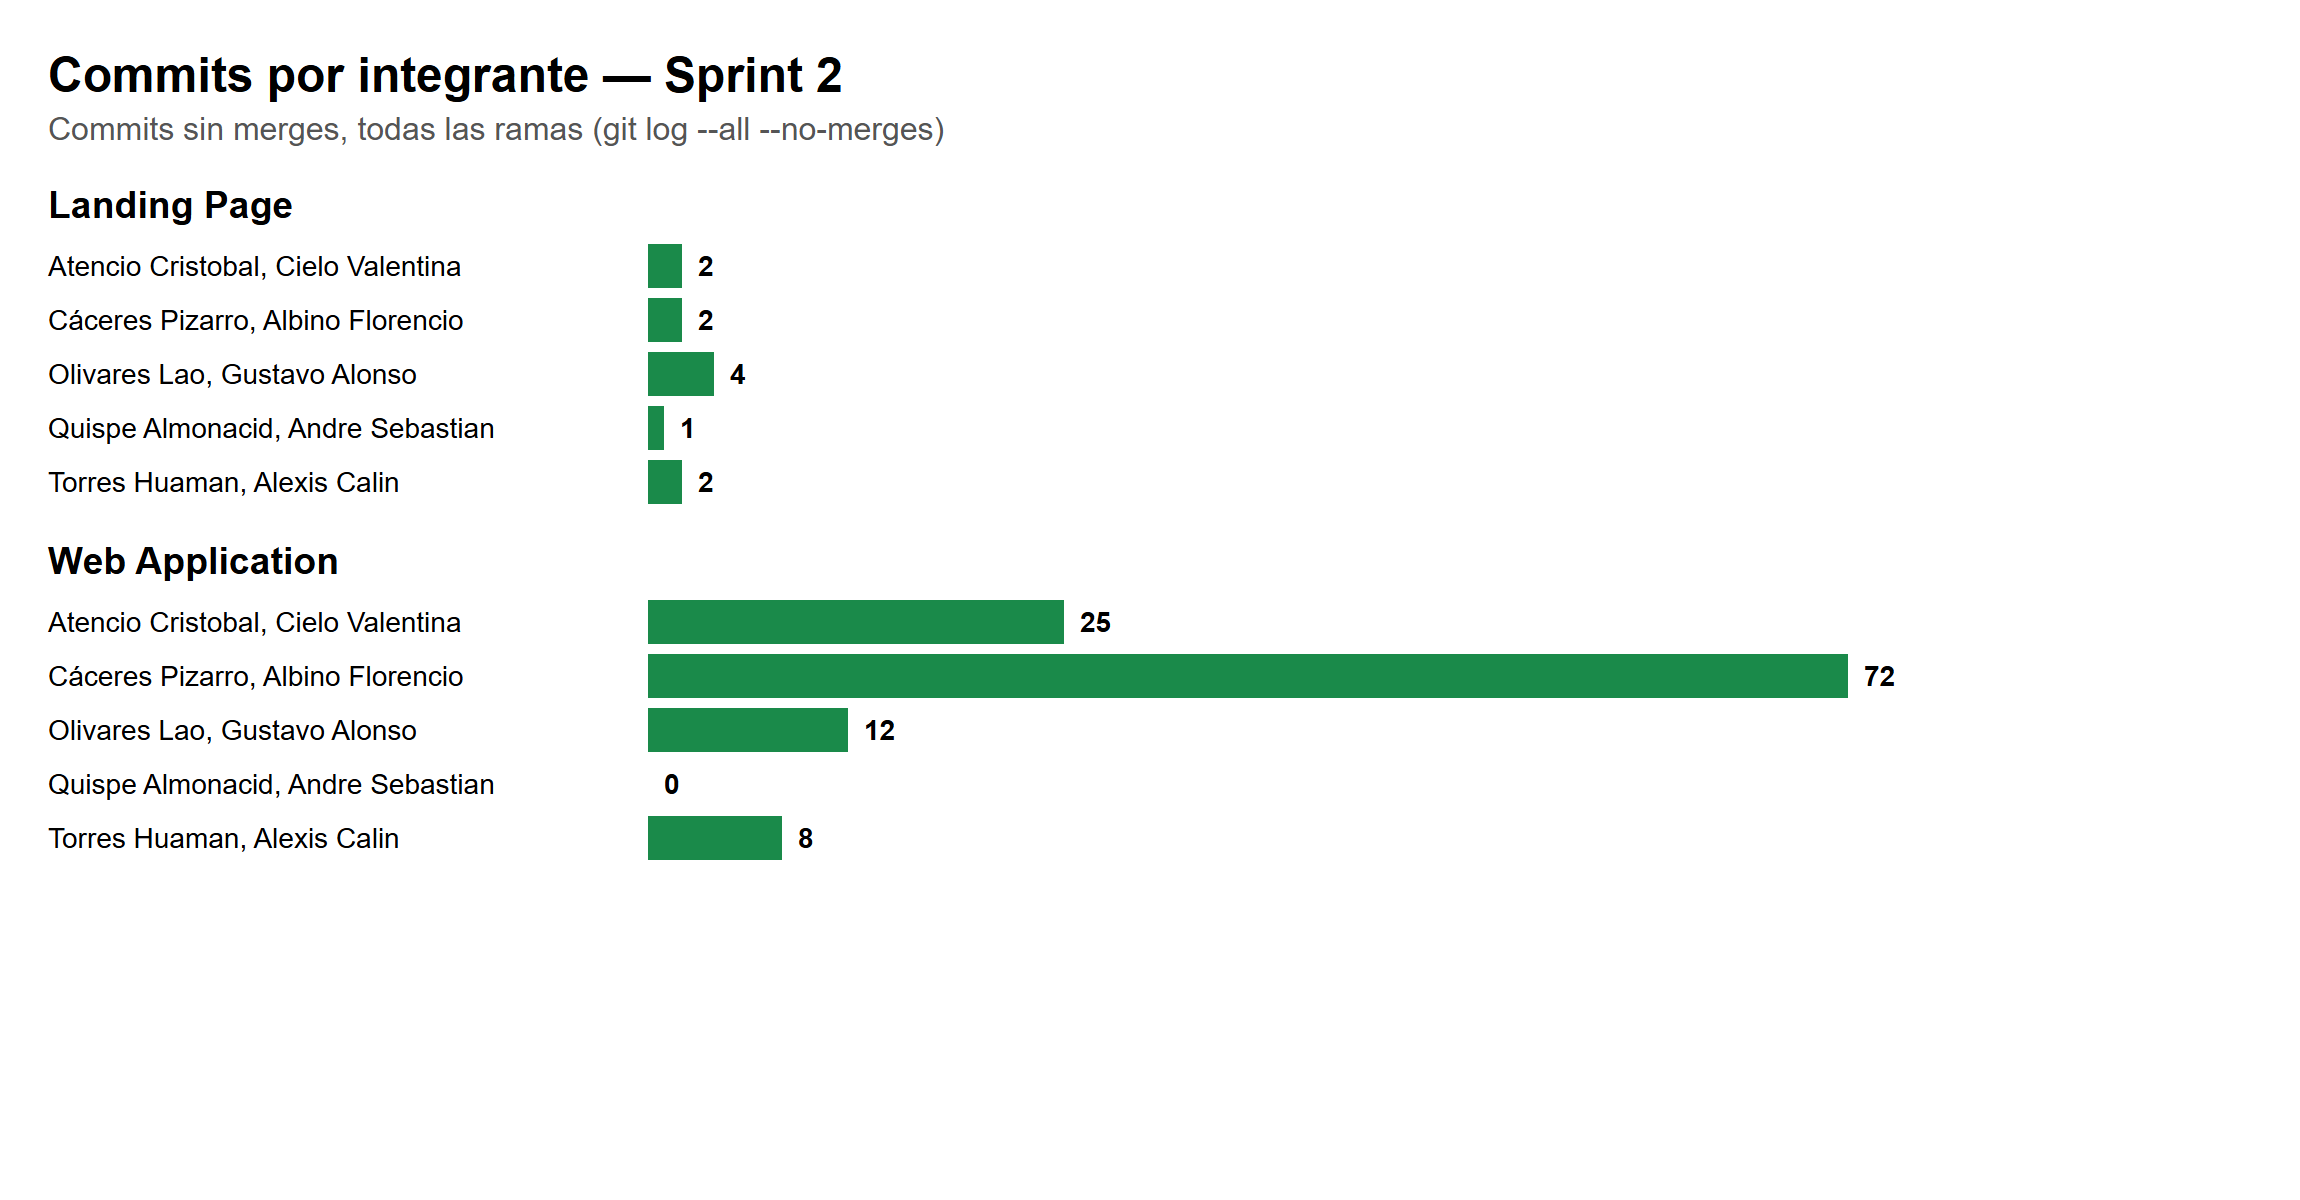
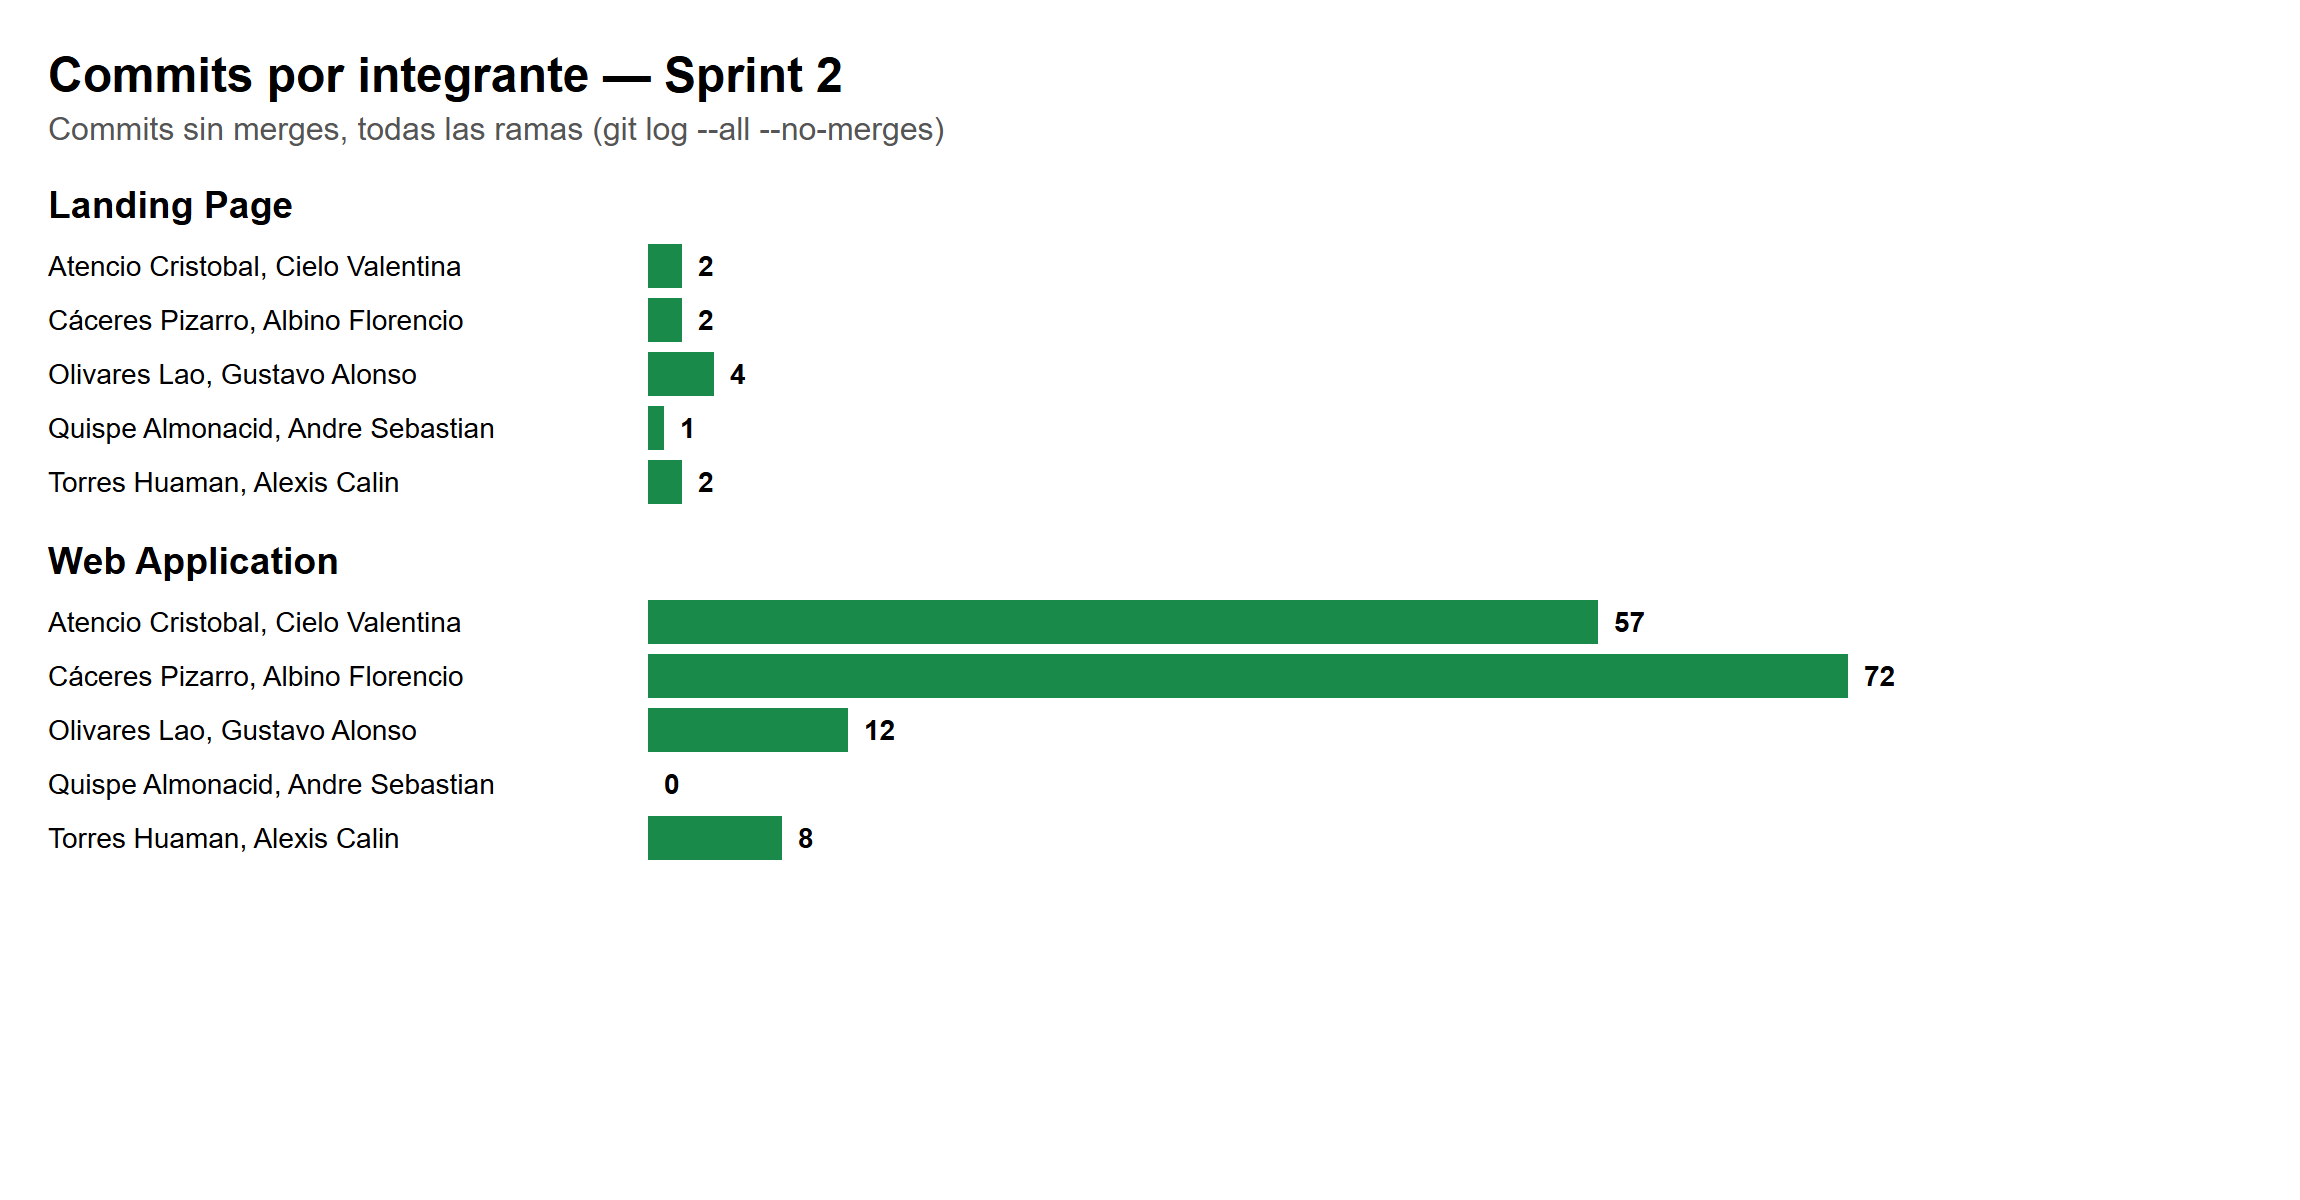
docs(chapter-05): add authenticated web application evidence and iam to sprint 2

Changed region(s): [[0.463, 0.4933, 0.71, 0.555]]

diff --git a/report/14-chapter-05.md b/report/14-chapter-05.md
@@ -478,9 +478,9 @@ Durante el Sprint 1 se configuró Firebase Hosting como proveedor cloud para des
 | Prepared By | Olivares Lao, Gustavo Alonso |
 | Attendees | Albino Florencio Cáceres Pizarro<br>Cielo Valentina Atencio Cristobal<br>Gustavo Alonso Olivares Lao<br>Andre Sebastian Quispe Almonacid<br>Alexis Calin Torres Huaman |
 | **Sprint Goal & User Stories** |  |
-| **Sprint 2 Goal** | **Nuestro enfoque** es entregar la primera versión navegable de la Web Application de **OrganiK**, organizada por bounded contexts (Dashboard, Inventory, Products, Suppliers, Analytics, Communication, Conservation y Shared Kernel, con datos simulados), y una nueva versión de la Landing Page con selector de idioma, páginas legales y página 404. **Creemos que esto entrega** a administradores de minimarket y proveedores una primera forma concreta de ver su inventario, catálogo, proveedores, alertas y conservación, y a los visitantes información legal clara y navegación bilingüe. **Esto se confirmará cuando** la Landing Page y la Web Application estén desplegadas en Firebase Hosting con soporte en español e inglés, y los módulos por bounded context estén integrados en la rama `develop` del repositorio. |
-| Historias de usuario comprometidas | US-037, US-039 (Landing Page); US-040, US-001, US-002, US-006, US-007, US-013, US-014, US-015, US-016, US-009, US-010, US-011, US-012, US-030 (Web Application). |
-| Story Points comprometidos | 61 Story Points, según el Product Backlog del capítulo III. |
+| **Sprint 2 Goal** | **Nuestro enfoque** es entregar la primera versión navegable de la Web Application de **OrganiK**, organizada por bounded contexts (Dashboard, Inventory, Products, Suppliers, Analytics, Communication, Conservation, IAM y Shared Kernel, con datos simulados), y una nueva versión de la Landing Page con selector de idioma, páginas legales y página 404. **Creemos que esto entrega** a administradores de minimarket y proveedores una primera forma concreta de ver su inventario, catálogo, proveedores, alertas y conservación, y a los visitantes información legal clara y navegación bilingüe. **Esto se confirmará cuando** la Landing Page y la Web Application estén desplegadas en Firebase Hosting con soporte en español e inglés, y los módulos por bounded context estén integrados en la rama `develop` del repositorio. |
+| Historias de usuario comprometidas | US-037, US-039 (Landing Page); US-040, US-026, US-027, US-028, US-001, US-002, US-006, US-007, US-013, US-014, US-015, US-016, US-009, US-010, US-011, US-012, US-030 (Web Application). |
+| Story Points comprometidos | 72 Story Points, según el Product Backlog del capítulo III. |
 
 <p>
   <strong>Repositorios:</strong><br>
@@ -508,7 +508,7 @@ Esta matriz <strong>LACX</strong> identifica los aspectos del Sprint 2 y asigna 
       <th>Aspect: Dashboard &amp; Inventory</th>
       <th>Aspect: Products &amp; Suppliers</th>
       <th>Aspect: Analytics &amp; Communication</th>
-      <th>Aspect: Conservation</th>
+      <th>Aspect: Conservation &amp; IAM</th>
     </tr>
   </thead>
   <tbody>
@@ -533,7 +533,7 @@ El seguimiento se realiza en el mismo tablero de Trello del proyecto: [Tablero d
 | **US-037** | Cambiar idioma del Landing Page | T008 | Script principal de la landing | Navegación, cambio de idioma ES/EN y animaciones en `main.js`. | 4h | Torres Huaman, Alexis Calin | Done |
 | **US-039** | Consultar términos y condiciones | T009 | Páginas legales | Páginas de términos y condiciones y de política de privacidad enlazadas en el footer. | 3h | Atencio Cristobal, Cielo Valentina | Done |
 | — | Tarea técnica | T010 | Página 404 de la landing | Página de error personalizada `404.html`. | 2h | Torres Huaman, Alexis Calin | Done |
-| — | Tarea técnica | T011 | Estilos globales y configuración | `.editorconfig`, Prettier y hoja de estilos global de la landing. | 3h | Quispe Almonacid, Andre Sebastian | To-Review |
+| — | Tarea técnica | T011 | Estilos globales y configuración | `.editorconfig`, Prettier y hoja de estilos global de la landing. | 3h | Quispe Almonacid, Andre Sebastian | Done |
 | — | Tarea técnica | T012 | Configuración inicial de la Web Application | Proyecto Angular, archivos de entorno de desarrollo y producción. | 4h | Olivares Lao, Gustavo Alonso | Done |
 | **US-040** | Cambiar idioma de la aplicación | T013 | Internacionalización ES/EN | Archivos i18n en español e inglés para la Web Application. | 3h | Olivares Lao, Gustavo Alonso | Done |
 | — | Tarea técnica | T014 | Shared Kernel | Modelos de dominio compartidos (Money, Quantity, DateTime, etc.), stores, API simulada, layout, sidebar y componentes compartidos. | 8h | Cáceres Pizarro, Albino Florencio | Done |
@@ -543,16 +543,17 @@ El seguimiento se realiza en el mismo tablero de Trello del proyecto: [Tablero d
 | **US-015, US-016** | Consultar y registrar productos de proveedores | T018 | Bounded context Suppliers | Capas de dominio, aplicación, infraestructura y presentación: proveedores, catálogo y ofertas. | 6h | Torres Huaman, Alexis Calin | Done |
 | — | Tarea técnica | T019 | Bounded context Analytics | Capas de dominio, aplicación, infraestructura y presentación: resumen de analítica y formulario de reportes. | 5h | Cáceres Pizarro, Albino Florencio | Done |
 | **US-009** | Generar alertas de vencimiento | T020 | Bounded context Communication | Capas de aplicación y presentación: vista general de alertas. | 4h | Cáceres Pizarro, Albino Florencio | Done |
-| **US-010, US-011, US-012** | Consultar condiciones, monitorear temperatura y humedad, alertas de conservación | T021 | Bounded context Conservation | Capas de dominio, aplicación, infraestructura y presentación: monitoreo y alertas de conservación. | 8h | Atencio Cristobal, Cielo Valentina | To-Review |
+| **US-010, US-011, US-012** | Consultar condiciones, monitorear temperatura y humedad, alertas de conservación | T021 | Bounded context Conservation | Capas de dominio, aplicación, infraestructura y presentación: monitoreo y alertas de conservación. | 8h | Atencio Cristobal, Cielo Valentina | Done |
+| **US-026, US-027, US-028** | Registrar usuario; iniciar sesión; gestionar permisos por rol | T022 | Bounded context IAM | Capas de dominio, infraestructura y presentación: inicio de sesión, registro, guardias de acceso y gestión de usuarios y roles. | 8h | Atencio Cristobal, Cielo Valentina | Done |
 
-Las estimaciones en horas son de planificación. Las tareas en estado *To-Review* están implementadas en ramas `feature` que aún no se integran en `develop`.
+Las estimaciones en horas son de planificación. Todas las tareas están integradas en la rama `develop` de su repositorio.
 
 ---
 
 #### 5.2.2.4. Development Evidence for Sprint Review.
 
 <p>
-  Durante el Sprint 2 se implementó la primera versión de la Web Application en Angular, organizada por bounded contexts (Dashboard, Inventory, Products, Suppliers, Analytics, Communication, Conservation y Shared Kernel) y por capas (domain, application, infrastructure, presentation), y se amplió la Landing Page con el script principal, páginas legales, página 404 y estilos globales. A continuación se resumen los commits más relevantes de cada repositorio, siguiendo Conventional Commits y GitFlow; el detalle completo está en el historial de cada repositorio.
+  Durante el Sprint 2 se implementó la primera versión de la Web Application en Angular, organizada por bounded contexts (Dashboard, Inventory, Products, Suppliers, Analytics, Communication, Conservation, IAM y Shared Kernel) y por capas (domain, application, infrastructure, presentation), y se amplió la Landing Page con el script principal, páginas legales, página 404 y estilos globales. A continuación se resumen los commits más relevantes de cada repositorio, siguiendo Conventional Commits y GitFlow; el detalle completo está en el historial de cada repositorio.
 </p>
 
 <table border="1" cellpadding="4" cellspacing="0">
@@ -793,6 +794,54 @@ Las estimaciones en horas son de planificación. Las tareas en estado *To-Review
     </tr>
     <tr>
       <td>5Bits-OrganiK/organik-web-application</td>
+      <td>feature/iam</td>
+      <td><code>92e6fcf</code></td>
+      <td>feat(iam): add domain/model/user.entity.ts</td>
+      <td>IAM: entidad de usuario.</td>
+      <td>09-10-2026</td>
+    </tr>
+    <tr>
+      <td>5Bits-OrganiK/organik-web-application</td>
+      <td>feature/iam</td>
+      <td><code>64ca71d</code></td>
+      <td>feat(iam): add infrastructure/iam-api.ts</td>
+      <td>IAM: API simulada de autenticación y usuarios.</td>
+      <td>09-10-2026</td>
+    </tr>
+    <tr>
+      <td>5Bits-OrganiK/organik-web-application</td>
+      <td>feature/iam</td>
+      <td><code>458f7ac</code></td>
+      <td>feat(iam): add presentation/guards/auth.guard.ts</td>
+      <td>IAM: guardias de acceso por sesión y módulo.</td>
+      <td>09-10-2026</td>
+    </tr>
+    <tr>
+      <td>5Bits-OrganiK/organik-web-application</td>
+      <td>feature/iam</td>
+      <td><code>e4a3805</code></td>
+      <td>feat(iam): add presentation/views/login/login.ts</td>
+      <td>IAM: vista de inicio de sesión.</td>
+      <td>09-10-2026</td>
+    </tr>
+    <tr>
+      <td>5Bits-OrganiK/organik-web-application</td>
+      <td>feature/iam</td>
+      <td><code>3e8d16d</code></td>
+      <td>feat(iam): add presentation/views/register/register.ts</td>
+      <td>IAM: vista de registro de usuario.</td>
+      <td>09-10-2026</td>
+    </tr>
+    <tr>
+      <td>5Bits-OrganiK/organik-web-application</td>
+      <td>feature/iam</td>
+      <td><code>ece5d4c</code></td>
+      <td>feat(iam): add presentation/views/user-list/user-list.ts</td>
+      <td>IAM: vista de usuarios y roles.</td>
+      <td>09-10-2026</td>
+    </tr>
+    <tr>
+      <td>5Bits-OrganiK/organik-web-application</td>
       <td>feature/shared</td>
       <td><code>d59262e</code></td>
       <td>feat(shared): add domain/model/domain-error.ts</td>
@@ -822,7 +871,7 @@ Las estimaciones en horas son de planificación. Las tareas en estado *To-Review
 
 #### 5.2.2.5. Execution Evidence for Sprint Review.
 
-Durante el Sprint 2 el equipo desplegó la primera versión de la Web Application y una nueva versión de la Landing Page de **OrganiK**. Se presentan las vistas públicas de ambos productos. Las pantallas de los módulos internos (dashboard, inventario, productos, proveedores, alertas, analítica y conservación) están implementadas en el repositorio y requieren una sesión autenticada.
+Durante el Sprint 2 el equipo desplegó la primera versión de la Web Application y una nueva versión de la Landing Page de **OrganiK**. Se presentan las vistas públicas de ambos productos. Además de las vistas públicas, se presentan las pantallas de los módulos internos de la Web Application, capturadas con una sesión autenticada y con datos de ejemplo.
 
 ##### Evidencia 1: Landing Page (nueva versión)
 La Landing Page mantiene su pantalla principal e incorpora selector de idioma ES/EN, acceso a la aplicación mediante los botones de inicio de sesión y enlaces a las páginas legales en el footer.
@@ -872,6 +921,56 @@ Página de error para rutas inexistentes de la aplicación.
 ![Página 404 de la Web Application](./assets/chapter-05/s2-webapp-404.png)
 *Figura: Página 404 de la Web Application de OrganiK.*
 
+##### Evidencia 9: Web Application — Dashboard (US-030)
+Panel principal con indicadores operativos: unidades en inventario, lotes por vencer, stock bajo, pedidos pendientes y actividad reciente.
+
+![Dashboard de la Web Application](./assets/chapter-05/s2-app-dashboard.jpg)
+*Figura: Dashboard de la Web Application de OrganiK.*
+##### Evidencia 10: Web Application — Inventario (US-002, US-006, US-013, US-014)
+Listado de inventario con SKU, producto, lote, stock, fecha de vencimiento y estado (normal, riesgo o crítico), con búsqueda, filtros y accesos para registrar stock, merma y oferta.
+
+![Inventario de la Web Application](./assets/chapter-05/s2-app-inventory.jpg)
+*Figura: Vista de inventario de la Web Application.*
+##### Evidencia 11: Web Application — Productos (US-001)
+Catálogo de productos organizado por categorías (frutas y verduras, lácteos, granos, bebidas, panadería y congelados) con acceso para agregar productos.
+
+![Productos de la Web Application](./assets/chapter-05/s2-app-products.jpg)
+*Figura: Vista de productos por categoría.*
+##### Evidencia 12: Web Application — Proveedores (US-015, US-016)
+Directorio de proveedores activos con acceso a su perfil y alta de nuevos proveedores.
+
+![Proveedores de la Web Application](./assets/chapter-05/s2-app-suppliers.jpg)
+*Figura: Vista de proveedores.*
+##### Evidencia 13: Web Application — Catálogo de proveedores (US-015)
+Catálogo publicado por los proveedores, de solo consulta, con producto, lote, unidades disponibles, vencimiento y fecha de actualización.
+
+![Catálogo de la Web Application](./assets/chapter-05/s2-app-catalog.jpg)
+*Figura: Vista de catálogo de proveedores.*
+##### Evidencia 14: Web Application — Conservación (US-010, US-011, US-012)
+Monitoreo de temperatura y humedad por zona de almacenamiento, con estado de cada lectura e historial filtrable por zona y fechas. Las lecturas son simuladas.
+
+![Conservación de la Web Application](./assets/chapter-05/s2-app-conservation.jpg)
+*Figura: Vista de monitoreo de conservación.*
+##### Evidencia 15: Web Application — Analítica (US-009)
+Indicadores operativos: pérdida evitada, productos en riesgo, solicitudes aceptadas y tendencia de alertas, con acceso para generar reportes.
+
+![Analítica de la Web Application](./assets/chapter-05/s2-app-analytics.jpg)
+*Figura: Vista de analítica.*
+##### Evidencia 16: Web Application — Alertas (US-009)
+Resumen de analítica y alertas de la plataforma, con tendencia de alertas y acceso para generar reportes.
+
+![Alertas de la Web Application](./assets/chapter-05/s2-app-alerts.jpg)
+*Figura: Vista de analítica y alertas.*
+##### Evidencia 17: Web Application — Perfiles (US-028)
+Perfil del usuario autenticado y perfiles de acceso (administrador, operador y proveedor) con los módulos que gestiona o consulta cada uno.
+
+![Perfiles de la Web Application](./assets/chapter-05/s2-app-profiles.jpg)
+*Figura: Vista de perfiles y permisos por rol.*
+##### Evidencia 18: Web Application — Usuarios y roles (US-026, US-028)
+Gestión de usuarios del minimarket con correo, rol, estado y acciones, y acceso para registrar nuevos usuarios.
+
+![Usuarios y roles de la Web Application](./assets/chapter-05/s2-app-users.jpg)
+*Figura: Vista de usuarios y roles.*
 ---
 
 #### 5.2.2.6. Services Documentation Evidence for Sprint Review.
@@ -925,7 +1024,7 @@ Durante el Sprint 2 se desplegó en Firebase Hosting la nueva versión de la Lan
     </tr>
   </thead>
   <tbody>
-    <tr><td>Atencio Cristobal, Cielo Valentina</td><td>Ciel0p</td><td>2</td><td>25</td><td>27</td></tr>
+    <tr><td>Atencio Cristobal, Cielo Valentina</td><td>Ciel0p</td><td>2</td><td>57</td><td>59</td></tr>
     <tr><td>Cáceres Pizarro, Albino Florencio</td><td>Lil Doggy / a.caceres</td><td>2</td><td>72</td><td>74</td></tr>
     <tr><td>Olivares Lao, Gustavo Alonso</td><td>GeGuMaGu25</td><td>4</td><td>12</td><td>16</td></tr>
     <tr><td>Quispe Almonacid, Andre Sebastian</td><td>u201815005</td><td>1</td><td>0</td><td>1</td></tr>
